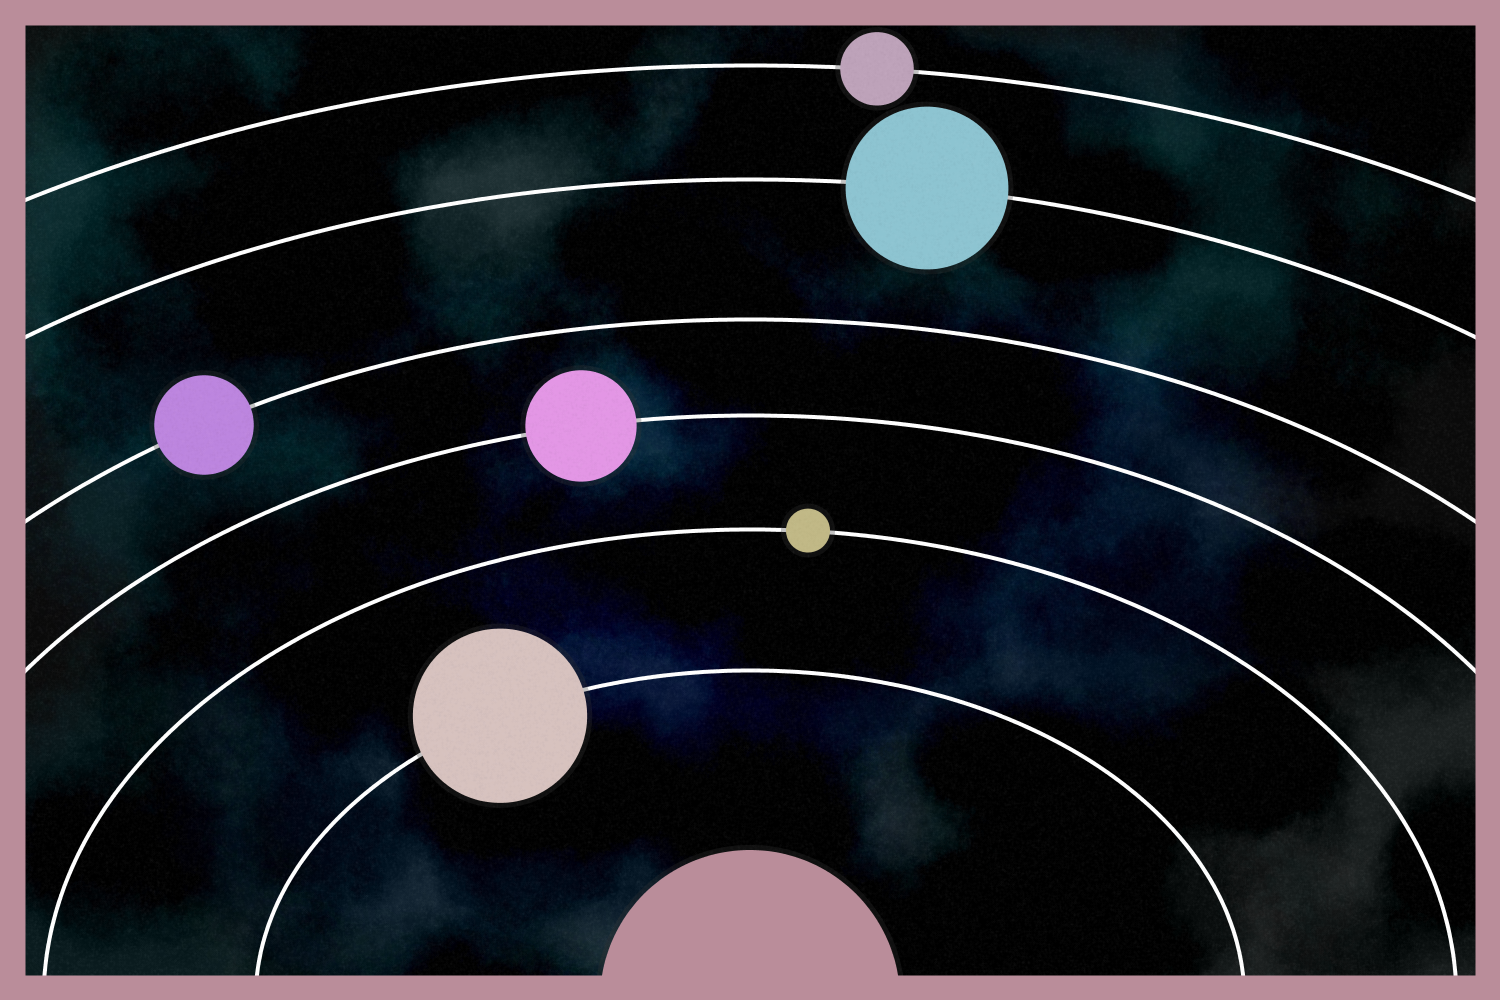
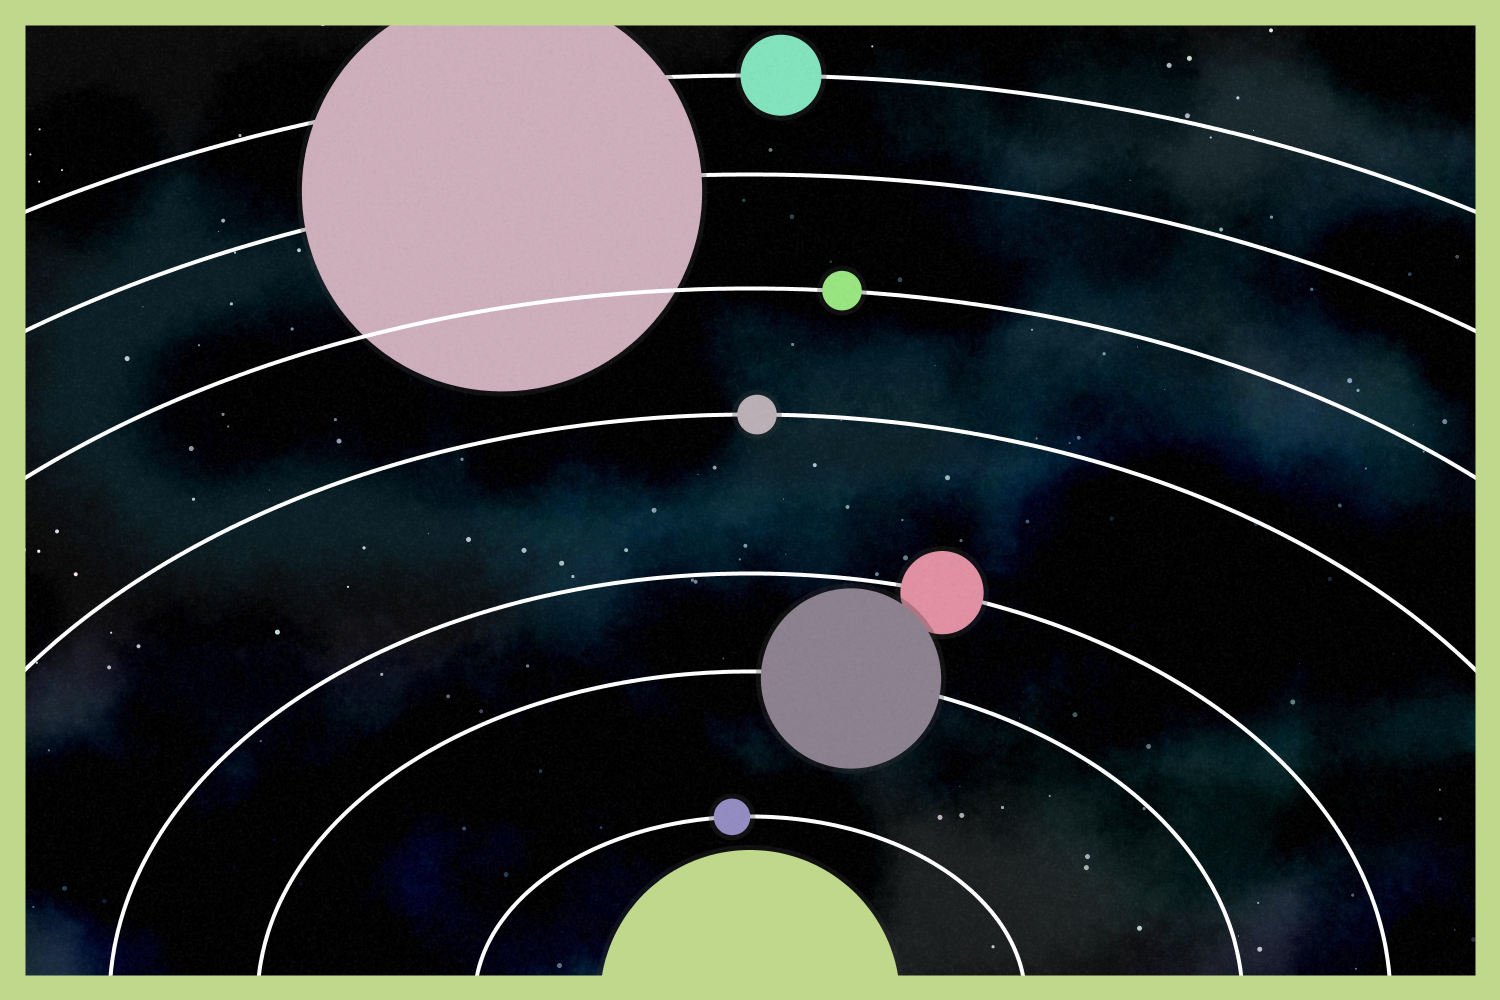
Added stars
Added stars to the solar system code, updated readme with some technique info.

diff --git a/README.md b/README.md
@@ -1,8 +1,11 @@
-# processing
+# Processing
 Playing with Processing and Python.
 
 ## Solar System
 Starting to play with generative art. Uses a nice (but super slow) technique for creating the nebula splotches. This was inspired by a couple of Eric Davidson's ([Github](https://github.com/erdavids), [YouTube](https://www.youtube.com/channel/UCUrmX3SvpPerq-KAfGBrgGQ)) examples of [watercolours](https://github.com/erdavids/WatercolorClouds) and [solar system](https://github.com/erdavids/Generative-Space-System).
+
+Originally I just used some overlays of white and black clouds over the basic nebula shapes, but after playing with using PGraphic objects in Processing I switched these to using dodge and burn blending modes instead which gives a much nicer effect, as well as a subtle localised blur on each layer.
+
 ![img](pics/solar_system.png)
 
 ## Dots
